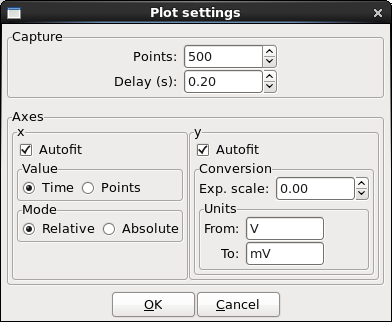
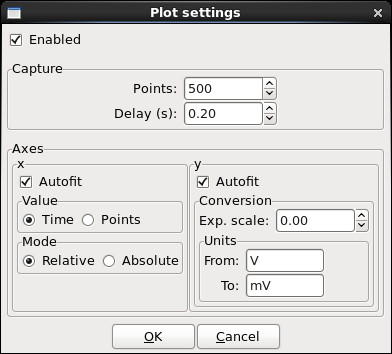
Made the plots in the measurement configuration optional
If the plots cannot be created at all, it will pretend it never tried.
Otherwise, the user has the option to disable the plots for the
measurement setup.

diff --git a/spacq/gui/display/plot/live/scalar.py b/spacq/gui/display/plot/live/scalar.py
@@ -1,3 +1,6 @@
+import logging
+log = logging.getLogger(__name__)
+
 import functools
 import math
 import numpy
@@ -12,7 +15,14 @@ from spacq.interface.units import Quantity
 
 from ....config.measurement import MeasurementConfigPanel
 from ....tool.box import Dialog, MessageDialog
-from ..two_dimensional import TwoDimensionalPlot
+
+try:
+	from ..two_dimensional import TwoDimensionalPlot
+except ImportError as e:
+	plot_available = False
+	log.debug('Could not import TwoDimensionalPlot: {0}'.format(str(e)))
+else:
+	plot_available = True
 
 """
 A historical live view plot for scalar values.
@@ -25,6 +35,7 @@ class PlotSettings(object):
 	"""
 
 	def __init__(self):
+		self.enabled = plot_available
 		self.num_points = 500
 		self.delay = Quantity(0.2, 's')
 		self.update_x = True
@@ -47,6 +58,12 @@ class PlotSettingsDialog(Dialog):
 		self.ok_callback = ok_callback
 
 		dialog_box = wx.BoxSizer(wx.VERTICAL)
+
+		# Enabled.
+		self.enabled_checkbox = wx.CheckBox(self, label='Enabled')
+		if not plot_available:
+			self.enabled_checkbox.Disable()
+		dialog_box.Add(self.enabled_checkbox, flag=wx.ALL, border=5)
 
 		# Capture.
 		capture_static_box = wx.StaticBox(self, label='Capture')
@@ -146,6 +163,7 @@ class PlotSettingsDialog(Dialog):
 
 	def GetValue(self):
 		plot_settings = PlotSettings()
+		plot_settings.enabled = self.enabled_checkbox.Value
 		plot_settings.num_points = self.points_input.Value
 		plot_settings.delay = Quantity(self.delay_input.GetValue(), 's')
 		plot_settings.update_x = self.update_x_axis.Value
@@ -159,6 +177,7 @@ class PlotSettingsDialog(Dialog):
 		return plot_settings
 
 	def SetValue(self, plot_settings):
+		self.enabled_checkbox.Value = plot_settings.enabled
 		self.points_input.Value = plot_settings.num_points
 		self.delay_input.SetValue(plot_settings.delay.value)
 		self.update_x_axis.Value = plot_settings.update_x
@@ -200,49 +219,53 @@ class ScalarLiveViewPanel(wx.Panel):
 		display_box = wx.BoxSizer(wx.VERTICAL)
 
 		## Plot.
-		self.plot = TwoDimensionalPlot(self, color='blue')
-		display_box.Add(self.plot.control, proportion=1, flag=wx.EXPAND)
+		if plot_available:
+			self.plot = TwoDimensionalPlot(self, color='blue')
+			display_box.Add(self.plot.control, proportion=1, flag=wx.EXPAND)
 
-		self.plot.x_label = 'Time (s)'
+			self.plot.x_label = 'Time (s)'
+		else:
+			display_box.Add((500, -1), proportion=1, flag=wx.EXPAND)
 
 		## Controls.
-		controls_box = wx.BoxSizer(wx.HORIZONTAL)
-		display_box.Add(controls_box, flag=wx.CENTER|wx.ALL, border=5)
+		if plot_available:
+			controls_box = wx.BoxSizer(wx.HORIZONTAL)
+			display_box.Add(controls_box, flag=wx.CENTER|wx.ALL, border=5)
 
-		### Numeric display.
-		numeric_display_static_box = wx.StaticBox(self, label='Reading')
-		numeric_display_box = wx.StaticBoxSizer(numeric_display_static_box, wx.HORIZONTAL)
-		controls_box.Add(numeric_display_box, flag=wx.CENTER)
+			### Numeric display.
+			numeric_display_static_box = wx.StaticBox(self, label='Reading')
+			numeric_display_box = wx.StaticBoxSizer(numeric_display_static_box, wx.HORIZONTAL)
+			controls_box.Add(numeric_display_box, flag=wx.CENTER)
 
-		self.numeric_display = wx.TextCtrl(self, size=(100, -1), style=wx.TE_READONLY)
-		self.numeric_display.BackgroundColour = wx.LIGHT_GREY
-		numeric_display_box.Add(self.numeric_display)
+			self.numeric_display = wx.TextCtrl(self, size=(100, -1), style=wx.TE_READONLY)
+			self.numeric_display.BackgroundColour = wx.LIGHT_GREY
+			numeric_display_box.Add(self.numeric_display)
 
-		### Capture.
-		capture_static_box = wx.StaticBox(self, label='Control')
-		capture_box = wx.StaticBoxSizer(capture_static_box)
-		controls_box.Add(capture_box, flag=wx.CENTER|wx.LEFT, border=10)
+			### Capture.
+			capture_static_box = wx.StaticBox(self, label='Control')
+			capture_box = wx.StaticBoxSizer(capture_static_box)
+			controls_box.Add(capture_box, flag=wx.CENTER|wx.LEFT, border=10)
 
-		self.run_button = wx.Button(self, label='Run')
-		self.Bind(wx.EVT_BUTTON, self.OnRun, self.run_button)
-		capture_box.Add(self.run_button, flag=wx.CENTER)
+			self.run_button = wx.Button(self, label='Run')
+			self.Bind(wx.EVT_BUTTON, self.OnRun, self.run_button)
+			capture_box.Add(self.run_button, flag=wx.CENTER)
 
-		self.pause_button = wx.Button(self, label='Pause')
-		self.Bind(wx.EVT_BUTTON, self.OnPause, self.pause_button)
-		capture_box.Add(self.pause_button, flag=wx.CENTER)
+			self.pause_button = wx.Button(self, label='Pause')
+			self.Bind(wx.EVT_BUTTON, self.OnPause, self.pause_button)
+			capture_box.Add(self.pause_button, flag=wx.CENTER)
 
-		self.reset_button = wx.Button(self, label='Reset')
-		self.Bind(wx.EVT_BUTTON, self.OnReset, self.reset_button)
-		capture_box.Add(self.reset_button, flag=wx.CENTER|wx.LEFT, border=10)
+			self.reset_button = wx.Button(self, label='Reset')
+			self.Bind(wx.EVT_BUTTON, self.OnReset, self.reset_button)
+			capture_box.Add(self.reset_button, flag=wx.CENTER|wx.LEFT, border=10)
 
-		### Settings.
-		settings_static_box = wx.StaticBox(self, label='Settings')
-		settings_box = wx.StaticBoxSizer(settings_static_box, wx.HORIZONTAL)
-		controls_box.Add(settings_box, flag=wx.CENTER|wx.LEFT, border=10)
+			### Settings.
+			settings_static_box = wx.StaticBox(self, label='Settings')
+			settings_box = wx.StaticBoxSizer(settings_static_box, wx.HORIZONTAL)
+			controls_box.Add(settings_box, flag=wx.CENTER|wx.LEFT, border=10)
 
-		self.plot_settings_button = wx.Button(self, label='Plot...')
-		self.Bind(wx.EVT_BUTTON, self.OnPlotSettings, self.plot_settings_button)
-		settings_box.Add(self.plot_settings_button, flag=wx.CENTER)
+			self.plot_settings_button = wx.Button(self, label='Plot...')
+			self.Bind(wx.EVT_BUTTON, self.OnPlotSettings, self.plot_settings_button)
+			settings_box.Add(self.plot_settings_button, flag=wx.CENTER)
 
 		self.SetSizer(display_box)
 
@@ -365,6 +388,9 @@ class ScalarLiveViewPanel(wx.Panel):
 		"""
 		Update the plot with a new value.
 		"""
+
+		if not self.plot_settings.enabled:
+			return
 
 		# Extract the value of a Quantity.
 		try:

diff --git a/spacq/gui/display/plot/live/list.py b/spacq/gui/display/plot/live/list.py
@@ -7,7 +7,14 @@ import wx
 
 from ....config.measurement import MeasurementConfigPanel
 from ....tool.box import Dialog, MessageDialog
-from ..surface import SurfacePlot
+
+try:
+	from ..surface import SurfacePlot
+except ImportError as e:
+	plot_available = False
+	log.debug('Could not import SurfacePlot: {0}'.format(str(e)))
+else:
+	plot_available = True
 
 """
 A historical live view plot for list values.
@@ -20,6 +27,7 @@ class PlotSettings(object):
 	"""
 
 	def __init__(self):
+		self.enabled = plot_available
 		self.num_lines = 100
 
 
@@ -34,6 +42,12 @@ class PlotSettingsDialog(Dialog):
 		self.ok_callback = ok_callback
 
 		dialog_box = wx.BoxSizer(wx.VERTICAL)
+
+		# Enabled.
+		self.enabled_checkbox = wx.CheckBox(self, label='Enabled')
+		if not plot_available:
+			self.enabled_checkbox.Disable()
+		dialog_box.Add(self.enabled_checkbox, flag=wx.ALL, border=5)
 
 		# Capture.
 		capture_static_box = wx.StaticBox(self, label='Capture')
@@ -68,11 +82,13 @@ class PlotSettingsDialog(Dialog):
 
 	def GetValue(self):
 		plot_settings = PlotSettings()
+		plot_settings.enabled = self.enabled_checkbox.Value
 		plot_settings.num_lines = self.lines_input.Value
 
 		return plot_settings
 
 	def SetValue(self, plot_settings):
+		self.enabled_checkbox.Value = plot_settings.enabled
 		self.lines_input.Value = plot_settings.num_lines
 
 
@@ -101,33 +117,37 @@ class ListLiveViewPanel(wx.Panel):
 		display_box = wx.BoxSizer(wx.VERTICAL)
 
 		## Plot.
-		self.plot = SurfacePlot(self, style='waveform')
-		display_box.Add(self.plot.control, proportion=1, flag=wx.EXPAND)
+		if plot_available:
+			self.plot = SurfacePlot(self, style='waveform')
+			display_box.Add(self.plot.control, proportion=1, flag=wx.EXPAND)
 
-		self.plot.x_label = 'Waveform time (s)'
-		self.plot.y_label = 'History'
+			self.plot.x_label = 'Waveform time (s)'
+			self.plot.y_label = 'History'
+		else:
+			display_box.Add((500, -1), proportion=1, flag=wx.EXPAND)
 
 		## Controls.
-		controls_box = wx.BoxSizer(wx.HORIZONTAL)
-		display_box.Add(controls_box, flag=wx.CENTER|wx.ALL, border=5)
+		if plot_available:
+			controls_box = wx.BoxSizer(wx.HORIZONTAL)
+			display_box.Add(controls_box, flag=wx.CENTER|wx.ALL, border=5)
 
-		### Capture.
-		capture_static_box = wx.StaticBox(self, label='Control')
-		capture_box = wx.StaticBoxSizer(capture_static_box)
-		controls_box.Add(capture_box, flag=wx.CENTER)
+			### Capture.
+			capture_static_box = wx.StaticBox(self, label='Control')
+			capture_box = wx.StaticBoxSizer(capture_static_box)
+			controls_box.Add(capture_box, flag=wx.CENTER)
 
-		self.reset_button = wx.Button(self, label='Reset')
-		self.Bind(wx.EVT_BUTTON, self.OnReset, self.reset_button)
-		capture_box.Add(self.reset_button, flag=wx.CENTER)
+			self.reset_button = wx.Button(self, label='Reset')
+			self.Bind(wx.EVT_BUTTON, self.OnReset, self.reset_button)
+			capture_box.Add(self.reset_button, flag=wx.CENTER)
 
-		### Settings.
-		settings_static_box = wx.StaticBox(self, label='Settings')
-		settings_box = wx.StaticBoxSizer(settings_static_box, wx.HORIZONTAL)
-		controls_box.Add(settings_box, flag=wx.CENTER|wx.LEFT, border=10)
+			### Settings.
+			settings_static_box = wx.StaticBox(self, label='Settings')
+			settings_box = wx.StaticBoxSizer(settings_static_box, wx.HORIZONTAL)
+			controls_box.Add(settings_box, flag=wx.CENTER|wx.LEFT, border=10)
 
-		self.plot_settings_button = wx.Button(self, label='Plot...')
-		self.Bind(wx.EVT_BUTTON, self.OnPlotSettings, self.plot_settings_button)
-		settings_box.Add(self.plot_settings_button, flag=wx.CENTER)
+			self.plot_settings_button = wx.Button(self, label='Plot...')
+			self.Bind(wx.EVT_BUTTON, self.OnPlotSettings, self.plot_settings_button)
+			settings_box.Add(self.plot_settings_button, flag=wx.CENTER)
 
 		self.SetSizer(display_box)
 
@@ -180,6 +200,9 @@ class ListLiveViewPanel(wx.Panel):
 		"""
 		Update the plot with a new list of values.
 		"""
+
+		if not self.plot_settings.enabled:
+			return
 
 		# Extract the times and the data values.
 		times, values = zip(*values)

diff --git a/docs/user/gui/config/measurement_config.rst b/docs/user/gui/config/measurement_config.rst
@@ -6,6 +6,9 @@ Measurement configuration
 
 The measurement configuration dialogs are used to set up :ref:`input variables <general_concepts_input_variables>` for an application.
 
+.. note::
+   If the plots cannot be displayed (most likely due to a required plotting library not being installed), the plots and all plot-specific options will be omitted. However, the measurements can still be set up in the same way.
+
 .. _measurement_config_scalar:
 
 Scalar measurement
@@ -50,6 +53,7 @@ Plot settings
 
    ..
 
+   * Enabled: Whether the plot should be updated at all.
    * Capture
 
      * Points: The number of historical values to display. The maximum value is 10,000.
@@ -93,6 +97,7 @@ Plot settings
 
    ..
 
+   * Enabled: Whether the plot should be updated at all.
    * Capture
 
      * Lines: The number of lines of historical data to display.
